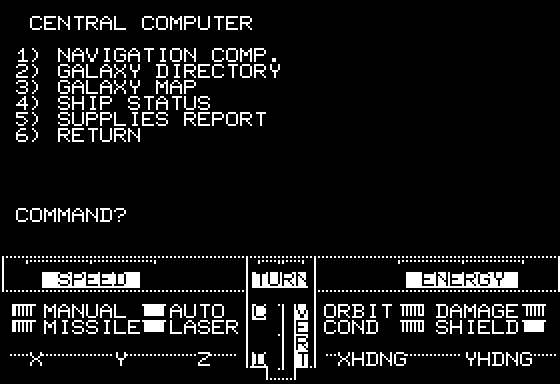
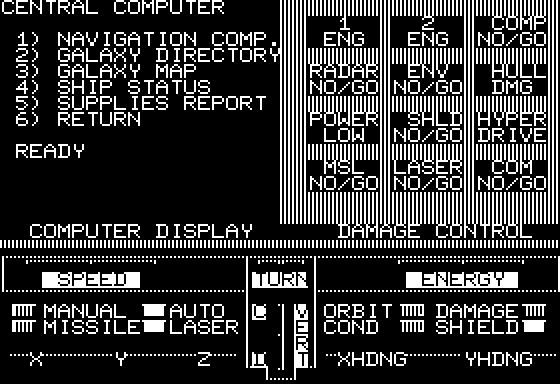
COM submenus: the screen is inherited, and TAB counts from the screen (finding #24)
`transition_parity.mjs` reported the central computer submenu with 3,853 pixels lit against the
disk's 11,862 - a screen no other capture in the suite reaches, because every other one is of a
screen entered from flight.

COM 200's `R = 1: GOSUB 21` falls through 21 and 25 into 29, which blanks twenty columns over
rows 0 to 13, and then 35 returns before 40 to 90 draw the damage-control grid and the box. The
submenu inherits both. The port was clearing forty columns over sixteen rows and wiping them.

The rest of the gap was position. Applesoft's TAB stores n-1 into CH and the monitor reads CH as
an absolute column, so 210's `TAB( 1)` is column 0 and the title sits one cell left of its own
menu; 210's trailing PRINT puts the options on rows 2 to 7; and 260 prompts with `READY `, not
`COMMAND?`, on row 9. 800 to 830 are the same shape for the navigation submenu. 860 is the odd
one: no HOME after the GOSUB, so it prints at row 0 column 0 where 29's HOME left the cursor,
the destination digits go on row 5 at columns 1 and 2, and 890 prints the name and `COURSE SET.`
with no clear above them and no distance line - the port had invented one.

`transition_parity.mjs` now reports `COM -> computer` exact above the panel: rows 0-40 3035 both
ways, rows 41-123 5586 both ways, 0 differing. The harness also gained a per-band breakdown and
a diff mask per step, which is what localised this.

What is left on that route is the instrument panel, in two pieces: 63 pixels on the
[…]

Changed region(s): [[0.0, 0.0, 1.0, 0.6562]]

diff --git a/modern/web/src/scenes/com.ts b/modern/web/src/scenes/com.ts
@@ -229,10 +229,16 @@ export function drawComMainScreen(
   hires.text('  COMPUTER DISPLAY      DAMAGE CONTROL  ', 1, 15);
 }
 
-async function showError(hires: import('../engine/hires').Hires, lines: string[], durationMs = 2500): Promise<void> {
-  writeLines(hires, 1, 21, lines, 5);
+async function showError(
+  hires: import('../engine/hires').Hires,
+  lines: string[],
+  durationMs = 2500,
+  col = 1,
+  row = 21,
+): Promise<void> {
+  writeLines(hires, col, row, lines, 5);
   await wait(durationMs);
-  clearLines(hires, 1, 21, 40, 2);
+  clearLines(hires, col, row, Math.max(0, ...lines.map((l) => l.length)), lines.length);
 }
 
 const SHIP_NAMES: Record<number, string> = {
@@ -282,6 +288,8 @@ export const comScene = async (ctx: SceneContext, scenes: SceneManager): Promise
     computerMenu: for (;;) {
       if (!enterComputerMenu(hires)) continue mainMenu;
 
+      // 220: six PRINTs from row 2, each landing at CH = WNDLFT = 1, and a seventh PRINT
+      // that leaves the cursor on row 8.
       drawOptions(hires, [
         { key: '1', label: 'NAVIGATION COMP.' },
         { key: '2', label: 'GALAXY DIRECTORY' },
@@ -289,9 +297,10 @@ export const comScene = async (ctx: SceneContext, scenes: SceneManager): Promise
         { key: '4', label: 'SHIP STATUS' },
         { key: '5', label: 'SUPPLIES REPORT' },
         { key: '6', label: 'RETURN' },
-      ], 4, 2);
+      ], 3, 2);
 
-      drawPrompt(hires, 14, 2);
+      // 260 is `PRINT "READY ";: GET C$` - not COMMAND?, and on row 9.
+      drawPrompt(hires, 10, 2, 'READY ');
 
       const compChoice = await getChoice(input, hires, 1, 6);
 
@@ -315,13 +324,15 @@ export const comScene = async (ctx: SceneContext, scenes: SceneManager): Promise
       navMenu: for (;;) {
         if (!enterNavComputer(hires)) continue computerMenu;
 
+        // 810: title, two blank PRINTs, three options from row 3, a fourth blank PRINT.
         drawOptions(hires, [
           { key: '1', label: 'DIRECTORY' },
           { key: '2', label: 'SET COURSE' },
           { key: '3', label: 'RETURN' },
-        ], 6, 2);
+        ], 4, 2);
 
-        drawPrompt(hires, 12, 2);
+        // 830, like 260, prompts with READY - here on row 7.
+        drawPrompt(hires, 8, 2, 'READY ');
 
         const navChoice = await getChoice(input, hires, 1, 3);
 
@@ -340,17 +351,43 @@ export const comScene = async (ctx: SceneContext, scenes: SceneManager): Promise
   }
 };
 
+/**
+ * Line 200's `R = 1: GOSUB 21`, which clears **the left column only**.
+ *
+ * 21 falls into 29, and 29 is
+ *
+ *   HOME: PRINT "<20 spaces>": HOME: VTAB 2: FOR X = 1 TO 12: PRINT "<20 spaces>": NEXT:
+ *   PRINT "<20 spaces>";: HOME: POKE 32,1
+ *
+ * so twenty columns over rows 0 to 13, and then line 35 - `IF R = 1 THEN R = 0: RETURN` - takes
+ * it straight back out before lines 40 to 90 run. The damage-control grid on the right and the
+ * box around the menu are drawn once when COM starts and are **inherited** by every submenu.
+ *
+ * This used to clear 40 columns over 16 rows, which wiped the grid and the box: the disk's
+ * screen here has 11,862 pixels lit and the port's had 3,853.
+ * `oracle/transition_parity.mjs` is what noticed - no capture in the suite covers this screen,
+ * because every other one is of a screen reached from flight.
+ */
+function clearComTextColumn(hires: import('../engine/hires').Hires): void {
+  clearLines(hires, 1, 1, 20, 14);
+}
+
 function enterComputerMenu(hires: import('../engine/hires').Hires): boolean {
-  clearLines(hires, 1, 1, 40, 16);
+  clearComTextColumn(hires);
   hires.hcolor(1);
-  hires.text('CENTRAL COMPUTER', 3, 2);
+  // 210 is `PRINT TAB( 1);"CENTRAL COMPUTER"`, and Applesoft's TAB sets CH, which the monitor
+  // counts from the left of the **screen**, not from WNDLFT. TAB(1) is CH = 0, so the title
+  // starts one cell left of the menu under it - which is what the disk's screen shows.
+  hires.text('CENTRAL COMPUTER', 1, 1);
   return true;
 }
 
 function enterNavComputer(hires: import('../engine/hires').Hires): boolean {
-  clearLines(hires, 1, 1, 40, 16);
+  clearComTextColumn(hires);
   hires.hcolor(1);
-  hires.text('NAVIGATION COMPUTER', 3, 2);
+  // 810 has no TAB, so this one prints at the cursor 800's HOME left at CH = WNDLFT = 1 and
+  // lines up with the menu under it.
+  hires.text('NAVIGATION COMPUTER', 2, 1);
   return true;
 }
 
@@ -477,25 +514,33 @@ async function galaxyDirectory(ctx: SceneContext): Promise<void> {
 async function setCourse(ctx: SceneContext): Promise<void> {
   const { hires, state, input } = ctx;
 
-  clearLines(hires, 1, 1, 40, 16);
+  // COM line 860 is `R = 1: GOSUB 21: PRINT "NAVIGATION COMPUTER": PRINT: PRINT` - and unlike
+  // 200 and 800 it has **no HOME** after the GOSUB, so it prints where line 29's own HOME left
+  // the cursor: row 0, CH 0, before 29's `POKE 32,1` moved the window's left edge. The two
+  // blank PRINTs then land at CH = WNDLFT = 1 and leave the cursor on row 3.
+  clearComTextColumn(hires);
   hires.hcolor(1);
-  hires.text('NAVIGATION COMPUTER', 3, 2);
-  hires.text('DESIRED DESTINATION', 3, 4);
+  hires.text('NAVIGATION COMPUTER', 1, 1);
+  // 870: two lines, the second without a CR, then VTAB 6 and HTAB 1 + J for the two digits -
+  // so the number is typed on row 5 at columns 1 and 2, not beside the word.
+  hires.text('ENTER DESIRED', 2, 4);
+  hires.text('DESTINATION', 2, 5);
 
-  const planetIdx = await readTwoDigitNumber(input, hires, 5, 14, 1, 20);
+  const planetIdx = await readTwoDigitNumber(input, hires, 6, 2, 1, 20);
 
+  // 877's PRINT puts the cursor on row 6, and every message from here down starts there.
   if (planetIdx === null) {
-    await showError(hires, ['INVALID INPUT.']);
+    await showError(hires, ['INVALID INPUT.'], 2500, 2, 7);
     return;
   }
 
   if (planetIdx < 1 || planetIdx > 20) {
-    await showError(hires, ['<ERROR>']);
+    await showError(hires, ['<ERROR>'], 2500, 2, 7);
     return;
   }
 
   if (planetIdx - 1 === state.planetIndex) {
-    await showError(hires, ["THAT'S WHERE WE", 'ARE NOW, SIR!']);
+    await showError(hires, ["THAT'S WHERE WE", 'ARE NOW, SIR!'], 3000, 2, 7);
     return;
   }
 
@@ -508,12 +553,11 @@ async function setCourse(ctx: SceneContext): Promise<void> {
   ));
   glog('nav', `course set to ${name} dist=${dist}`);
 
-  clearLines(hires, 1, 3, 40, 8);
-  hires.hcolor(3);
-  hires.text(name.slice(0, 38), 3, 5);
-  hires.text('COURSE SET.', 3, 7);
+  // 890 is `PRINT S$(C): PRINT "COURSE SET."` and nothing else: no clear above it, so the
+  // prompt and the typed number stay on screen, and no distance line - that was invented.
   hires.hcolor(1);
-  hires.text(`DISTANCE: ${dist} L/Y`, 3, 8);
+  hires.text(name.slice(0, 38), 2, 7);
+  hires.text('COURSE SET.', 2, 8);
 
   await wait(2500);
 }

diff --git a/modern/web/oracle/DISK_TRUTH.md b/modern/web/oracle/DISK_TRUTH.md
@@ -4750,6 +4750,55 @@ The route, and what the disk runs along it:
 None of those is fixed here. The point of this entry is that they are now measured and named
 rather than waiting for someone to notice them while playing.
 
+### The computer submenu
+
+The submenu was the largest of those, and it is the one screen in COM that no other capture
+reaches. Reading it off the disk:
+
+    200 POKE 974,32: R = 1: GOSUB 21: HOME
+    210 PRINT TAB( 1);"CENTRAL COMPUTER": PRINT
+    220 PRINT "1) NAVIGATION COMP.": ... : PRINT "6) RETURN": PRINT
+    260 PRINT "READY ";: GET C$
+
+**The submenu inherits the screen; it does not rebuild it.** `GOSUB 21` falls through 21 and 25
+into 29 -
+
+    29 HOME: PRINT "<20 spaces>": HOME: VTAB 2: FOR X = 1 TO 12: PRINT "<20 spaces>": NEXT:
+       PRINT "<20 spaces>";: HOME: POKE 32,1
+
+which blanks **twenty columns over rows 0 to 13** and nothing else - and then 35, `IF R = 1 THEN
+R = 0: RETURN`, takes it straight back out before 40 to 90 draw the damage-control grid on the
+right and the `1,1 TO 139,1 TO 139,110 TO 1,110` box. The port was clearing forty columns over
+sixteen rows and wiping both: 3,853 pixels lit against the disk's 11,862.
+
+**TAB counts from the screen, not from the window.** Applesoft's `TAB(n)` stores n-1 into CH, and
+the monitor takes CH as an absolute column; `WNDLFT` only comes back into it on a carriage
+return. So `TAB(1)` is column 0, and the title sits one cell **left** of the menu beneath it,
+which the disk's screen shows plainly. 210's trailing `PRINT` then puts the six options on rows
+2 to 7 and 260's `READY ` - not `COMMAND?` - on row 9.
+
+800 to 830 are the same shape for the navigation submenu: no TAB, so its title lines up with its
+menu, two blank PRINTs before three options on rows 3 to 5, and `READY ` on row 7.
+
+860 differs from both in one detail worth writing down: it is `R = 1: GOSUB 21: PRINT
+"NAVIGATION COMPUTER"` with **no HOME**, so it prints where 29's own HOME left the cursor -
+row 0, column 0, taken before 29's `POKE 32,1` moved the window edge. Its two digits are typed
+on row 5 at columns 1 and 2 by `VTAB 6: HTAB 1 + J`, and 890 is `PRINT S$(C): PRINT "COURSE
+SET."` with nothing above it cleared and no distance line; the port had invented one.
+
+With those four screens corrected, `transition_parity.mjs` reports `COM -> computer` as exact
+everywhere above the instrument panel:
+
+| band | disk | port | differing |
+| --- | --- | --- | --- |
+| rows 0-40 | 3035 | 3035 | 0 |
+| rows 41-123 | 5586 | 5586 | 0 |
+| rows 124-191 | 3030 | 2993 | 63 |
+
+The 63 are the panel, and they are the same 63 that STATUS and the return from it report - one
+fault, in `drawInstruments`, counted four times. The panel entered from flight is a second,
+larger one: 2205 against 3241, and on that step it is now the **only** difference.
+
 ### What this leaves the predicates for
 
 `damage_parity.mjs` and `logic_parity.mjs` still run - they cover far more ticks and rounds than
